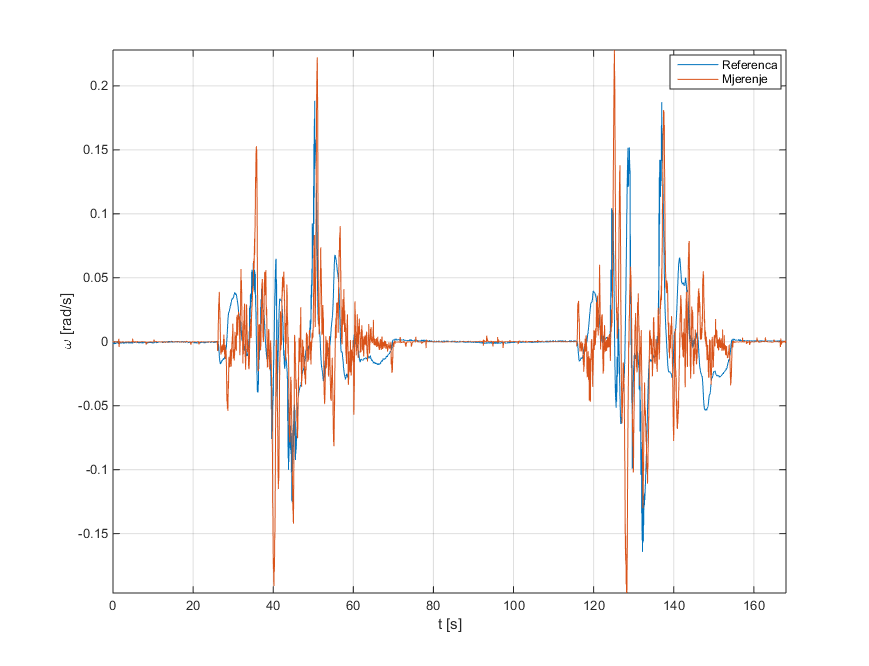
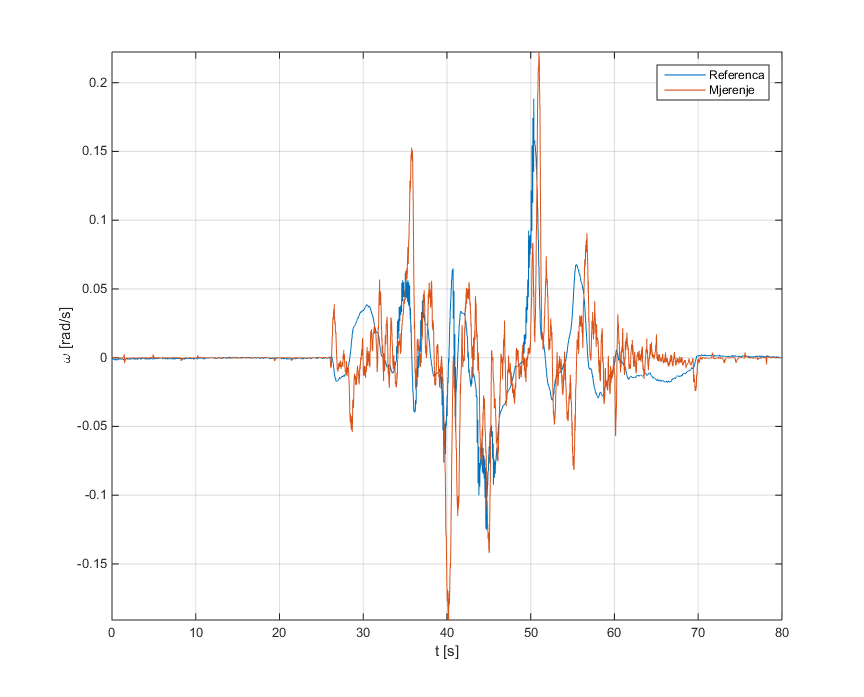
Added experiment results and comments, need review
Step and sinus responses need to be recorded again this time with
rosbag

diff --git a/Rektor_2017/Exp/Exp.tex b/Rektor_2017/Exp/Exp.tex
@@ -170,7 +170,8 @@
 \begin{document}
 %TODO Ubaciti sliku letjelice na gimbalu na početak poglavlja 
 U svrhu verifikacije sustava upravljanja letjelica je postavljena na stalak s jednom osi rotacije (eng. \textit{single axis gimbal}). Os rotacije stalka postavljena je što bliže centru mase letjelice kako bi se osiguralo ponašanje što sličnije letu.
-Ovim pristupom omogućeno je fino podešavanje koeficijenata regulacijskih petlji pojedinačnih osi letjelice. Kao početna točka u postupku uzeti su parametri regulatora izračunati iz matematičkog modela letjelice. Mijenjanjem koeficijenata upravljačkih petlji ispitano je ponašanje sustava na promjenu reference kuta i reakcija sustava na poremećaj. Poremećaj na letjelicu ostvaren je kao impuls vanjske sile na krak letjelice pri čemu dolazi do odmaka od zadanih vrijednosti kuta poniranja ili valjanja. Cilj postupka je pronaći dobar odnos između brzine odziva na promjenu referentne vrijednosti i kvalitete kompenzacije poremećaja. U nastavku su prikazani rezultati za parametre regulacijskih petlji iz tablice \ref{tab:reg_param}. 
+Ovim pristupom omogućeno je fino podešavanje koeficijenata regulacijskih petlji pojedinačnih osi letjelice. Kao početna točka u postupku uzeti su parametri regulatora izračunati iz matematičkog modela letjelice. Mijenjanjem koeficijenata upravljačkih petlji ispitano je ponašanje sustava na promjenu reference kuta i reakcija sustava na poremećaj. Poremećaj na letjelicu ostvaren je kao impuls vanjske sile na krak letjelice pri čemu dolazi do odmaka od zadanih vrijednosti kuta poniranja ili valjanja. Cilj postupka je pronaći dobar odnos između brzine odziva na promjenu referentne vrijednosti i kvalitete kompenzacije poremećaja. \newline 
+Opisanim postupkom podešavanja parametara odabrani su parametri regulatora prikazani u tablici \ref{tab:reg_param}.
 
 \setlength\extrarowheight{1pt}
 \begin{table}[H]
@@ -184,6 +185,82 @@ Ovim pristupom omogućeno je fino podešavanje koeficijenata regulacijskih petlj
 		1.3    \hfill     & 0     \hfill   & 0.03   \hfill     & 1.3      \hfill   & 0.07     \hfill    & 0        \\ \hline
 	\end{tabular}
 \end{table}
+
+Nakon odabira parametara regulatora provedena su tri eksperimenta prikazana u nastavku.
+
+\subsection{Eksperiment odskočne pobude}
+
+\begin{figure}[H]
+	\centering
+	\begin{subfigure}{.5\textwidth}
+		\centering
+		\includegraphics[width=1\linewidth]{{step_kut}.png}
+		\caption{Kut}
+		\label{fig:step_kut_odziv}
+	\end{subfigure}%
+	\begin{subfigure}{.5\textwidth}
+		\centering
+		\includegraphics[width=1\linewidth]{{step_brzina}.png}
+		\caption{Kutna brzina}
+		\label{fig:step_brzina_odziv}
+	\end{subfigure}
+	
+	\caption{Prikaz kuta i kutne brzine u eksperimentu odskočne pobude}
+	\label{fig:step_odzivi}
+\end{figure} %TODO: Snimi nove odzive na step sa rosbagom ovo baš i ne valja
+U ovom eksperimentu zadana je odskočna referenca kuta iznosa $\theta_{ref}=0.15 \hspace{5 pt} rad$. Snimljeni odziv kuta letjelice prikazan je slikom
+\ref{fig:step_kut_odziv}, a odziv kutne brzine prikazan je na slici \ref{fig:step_brzina_odziv}. Vrijeme porasta odziva na skokovitu promjenu reference iznosi $UNESI\_VRIJEME\_PORASTA$ dok letjelica dostiže postavljenu vrijednost u $UNESI\_SETTLING\_TIME$. Reakcija letjelice na promjenu reference je zadovoljavajuće brza za potrebe stabilnog leta.	%TODO: komentirati još odziv kutne brzine
+
+\subsection{Eksperiment sinusne pobude}
+Ovim eksperimentom ispituje se sposobnost praćenja kontinuirano promjenljivog referentnog signala kuta. 
+Zadana je referenca kuta kao sinusni signal amplitude $0.15 \hspace{5 pt} rad$ i frekvencije $FREKVENCIJA$ te su snimljeni odzivi kuta i kutne brzine letjelice prikazani na slici \ref{fig:sinus_odzivi}.
+\begin{figure}[H]
+	\centering
+	\begin{subfigure}{.5\textwidth}
+		\centering
+		\includegraphics[width=1\linewidth]{{sinus_kut}.png}
+		\caption{Kut}
+		\label{fig:sinus_kut_odziv}
+	\end{subfigure}%
+	\begin{subfigure}{.5\textwidth}
+		\centering
+		\includegraphics[width=1\linewidth]{{sinus_brzina}.png}
+		\caption{Kutna brzina}
+		\label{fig:sinus_brzina_odziv}
+	\end{subfigure}
+	
+	\caption{Prikaz kuta i kutne brzine u eksperimentu sinusne pobude}
+	\label{fig:sinus_odzivi}
+\end{figure}
+
+\noindent Iz prikazanih odziva vidljivo je da letjelica dobro prati stalno promjenjivu referencu kuta. Signal odziva kuta blago je prigušen i fazno zaostaje za 
+referentni signalom. %TODO izračunati pomak faze i prigušenje amplitude
+
+\subsection{Eksperiment upravljanja kutom uz uključene rotore}
+Prethodnim eksperimentima ispitano je ponašanje sustava upravljanja uz isključene rotore. Uspješnim izvođenjem prethodnih eksperimenata, ispitano je ponašanje sustava upravljanja uz potisak koji stvara rotacija četiri rotora letjelice. \newline
+Eksperiment je izveden tako da operater pomoću upravljačke konzole uključi rotore i podigne njihovu brzinu rotacije. Pri tome se prati uspješnost stabilizacije letjelice na poremećaj koji stvara potisak rotora. Zatim operater daje referencu kuta poniranja koja se sastoji od sekvence pozitivnog i negativnog pomaka iznosa $0.15 \hspace{5pt} rad$. Slika \ref{fig:rot_odzivi} prikazuje odziv kuta i kutne brzine uz opisanu referencu kuta.
+Iz snimljenih odziva vidljivo je da sustav upravljanja zadržava stabilnost uz uključene rotore, ali je utjecaj rotora prisutan u odzivu. 
+
+\begin{figure}[H]
+	\centering
+	\begin{subfigure}{.5\textwidth}
+		\centering
+		\includegraphics[width=1\linewidth]{{rotori_kut}.png}
+		\caption{Kut}
+		\label{fig:rot_kut_odziv}
+	\end{subfigure}%
+	\begin{subfigure}{.5\textwidth}
+		\centering
+		\includegraphics[width=1\linewidth]{{rotori_brzina}.png}
+		\caption{Kutna brzina}
+		\label{fig:rot_brzina_odziv}
+	\end{subfigure}
+	
+	\caption{Prikaz kuta i kutne brzine u eksperimentu upravljanja uz uključene rotore}
+	\label{fig:rot_odzivi}
+\end{figure}
+
+Provedenim eksperimentima potvrđena je uspješnost projektiranja sustava upravljanja. Snimljeni odzivi potvrđuju ispravnost i stabilnost ponašanja letjelice što omogućuje izvođenje prvih eksperimentalnih letova.
 
 
 

diff --git a/Rektor_2017/Exp/mjerenja/plot_skripta.m b/Rektor_2017/Exp/mjerenja/plot_skripta.m
@@ -68,20 +68,28 @@ rot_rate_mv(:,1) = rot_rate_mv(:,1)/1e9;
 rot_rate_ref(:,1) = rot_rate_ref(:,1)-ones(length(rot_rate_ref(:,1)),1)*rot_rate_ref(1,1);
 rot_rate_ref(:,1) = rot_rate_ref(:,1)/1e9;
 
+%index da se plota samo prvo paljenje rotora (idx_ = end ako hoces sve)
+idxr = find(rot_ang_ref(:,1)>=80,1,'first');
+idxm = find(rot_ang_mv(:,1)>=80,1,'first');
+
 %sad plotaj
 figure
-plot(rot_ang_ref(:,1),rot_ang_ref(:,2));
+plot(rot_ang_ref(1:idxr,1),rot_ang_ref(1:idxr,2));
 hold on; grid on;
-plot(rot_ang_mv(:,1),rot_ang_mv(:,2));
+plot(rot_ang_mv(1:idxm,1),rot_ang_mv(1:idxm,2));
 axis tight 
 legend('Referenca','Mjerenje');
 xlabel('t [s]');
 ylabel('\theta [rad]');
 
+%index za kraj plota
+idxr = find(rot_rate_ref(:,1)>=80,1,'first');
+idxm = find(rot_rate_mv(:,1)>=80,1,'first');
+
 figure
-plot(rot_rate_ref(:,1),rot_rate_ref(:,2));
+plot(rot_rate_ref(1:idxr,1),rot_rate_ref(1:idxr,2));
 hold on; grid on;
-plot(rot_rate_mv(:,1),rot_rate_mv(:,2));
+plot(rot_rate_mv(1:idxm,1),rot_rate_mv(1:idxm,2));
 axis tight 
 legend('Referenca','Mjerenje');
 xlabel('t [s]');

diff --git a/Rektor_2017/rektor_2017.tex b/Rektor_2017/rektor_2017.tex
@@ -151,7 +151,7 @@
 \usepackage{import}
 \usepackage{standalone}
 
-\graphicspath{{Uvod/}, {CAD/}, {Exp/}, {Hardware/}, {Software/}, {Identifikacija/}, {Koncept/}, {Model/figures/}, {Software/Slike/}, {Hardware/figures/},{CAD/figures/}, {Uvod/figures/}}
+\graphicspath{{Uvod/}, {CAD/}, {Exp/}, {Hardware/}, {Software/}, {Identifikacija/}, {Koncept/}, {Model/figures/}, {Software/Slike/}, {Hardware/figures/},{CAD/figures/}, {Uvod/figures/},{Exp/figures/}}
 
 \hypersetup{
   colorlinks   = true, %Colours links instead of ugly boxes
